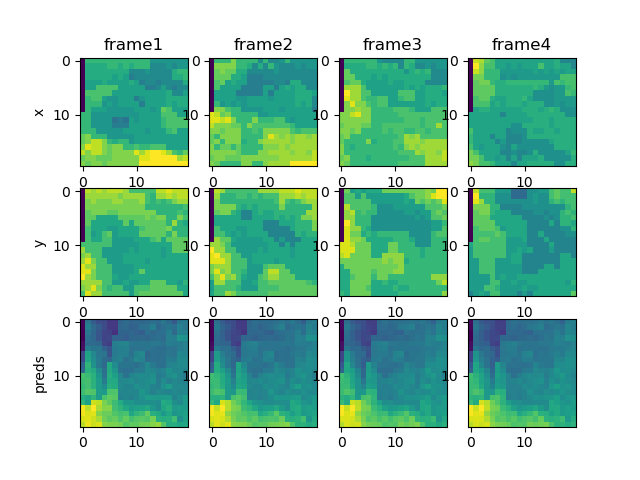
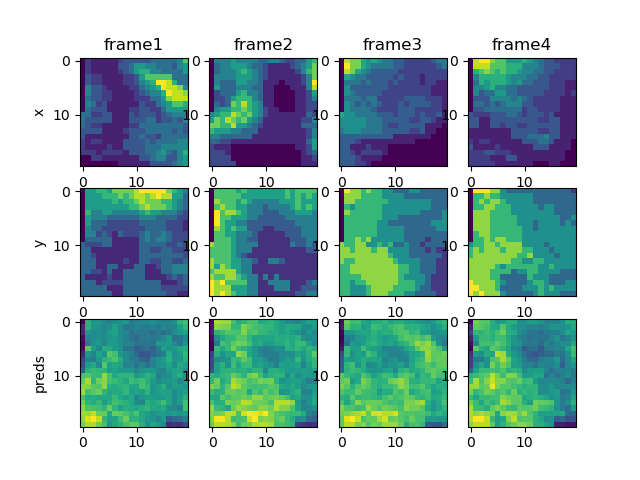
data loader fix

diff --git a/data_loaders/kmni_data_loader.py b/data_loaders/kmni_data_loader.py
@@ -21,7 +21,8 @@ class DataLoader:
         time_steps: int = 4,
         norm_max=None,
         norm_min=None,
-        crop=None
+        crop=None,
+        shuffle: bool = True
     ):
         self.crop = crop
         self.device = device
@@ -31,6 +32,11 @@ class DataLoader:
         self.files = tuple(
             os.path.join(folder, fn) for fn in sorted(os.listdir(folder))
         )
+        self.shuffle = shuffle
+        if self.shuffle:
+            rand_indices = t.randperm(len(self.files))
+            tmp = tuple(self.files[i] for i in rand_indices)
+            self.files = tmp
         self.remainder = self.__read_next_file()
         self.file_length = self.remainder.shape[0] * self.remainder.shape[1]
         self.normalizing_constant = 270
@@ -74,16 +80,23 @@ class DataLoader:
 
     def __next__(self) -> tuple[t.Tensor, t.Tensor]:
         # ipdb.set_trace()
-        if self.remainder.shape[1] < self.batch_size:
-            new_data = self.__read_next_file()
-            data = t.cat((self.remainder, new_data), dim=1)
+        if self.remainder.shape[1] == 0:
+            data = self.__read_next_file()
+            # data = t.cat((self.remainder, new_data), dim=1)
         else:
             data = self.remainder
         self.remainder = data[:, self.batch_size :]
         result = data[:, : self.batch_size].to(self.device)
+        rand_indices = (
+            t.randperm(result.shape[1])
+            if self.shuffle
+            else t.arange(result.shape[1])
+        )
         results = (
-            result[0].permute(0, 3, 4, 1, 2) / self.normalizing_constant,
-            result[1].permute(0, 3, 4, 1, 2) / self.normalizing_constant,
+            result[0][rand_indices].permute(0, 3, 4, 1, 2)
+            / self.normalizing_constant,
+            result[1][rand_indices].permute(0, 3, 4, 1, 2)
+            / self.normalizing_constant,
         )
         if self.crop is not None:
             results = (
@@ -102,16 +115,29 @@ def get_loaders(
     data_folder: str,
     device,
     crop: int = None,
+    shuffle: bool = True,
 ):
     train_loader = DataLoader(
-        train_batch_size, os.path.join(data_folder, "train"), device, crop=crop
+        train_batch_size,
+        os.path.join(data_folder, "train"),
+        device,
+        crop=crop,
+        shuffle=shuffle,
     )
 
     val_loader = DataLoader(
-        test_batch_size, os.path.join(data_folder, "test"), device, crop=crop
+        test_batch_size,
+        os.path.join(data_folder, "test"),
+        device,
+        crop=crop,
+        shuffle=shuffle,
     )
     test_loader = DataLoader(
-        test_batch_size, os.path.join(data_folder, "test"), device, crop=crop
+        test_batch_size,
+        os.path.join(data_folder, "test"),
+        device,
+        crop=crop,
+        shuffle=shuffle,
     )
     return train_loader, val_loader, test_loader
 

diff --git a/experiments/experiment_local/config.py b/experiments/experiment_local/config.py
@@ -7,7 +7,7 @@ PREPROCESSED_FOLDER = "/mnt/kmni_dataset/20_preprocessed"
 MAPPING_TYPE = "linear"
 DATASET = "kmni"
 EPOCHS = 10
-TRAIN_BATCH_SIZE = 5
+TRAIN_BATCH_SIZE = 32
 TEST_BATCH_SIZE = 64
 LEARNING_RATE = 0.001
 LR_STEP = 1
@@ -16,4 +16,3 @@ PLOT = False
 CRITERION = nn.MSELoss()
 OPTIMIZER = torch.optim.Adam
 DOWNSAMPLE_SIZE = (20, 20)
-# DOWNSAMPLE_SIZE = (1, 16)
